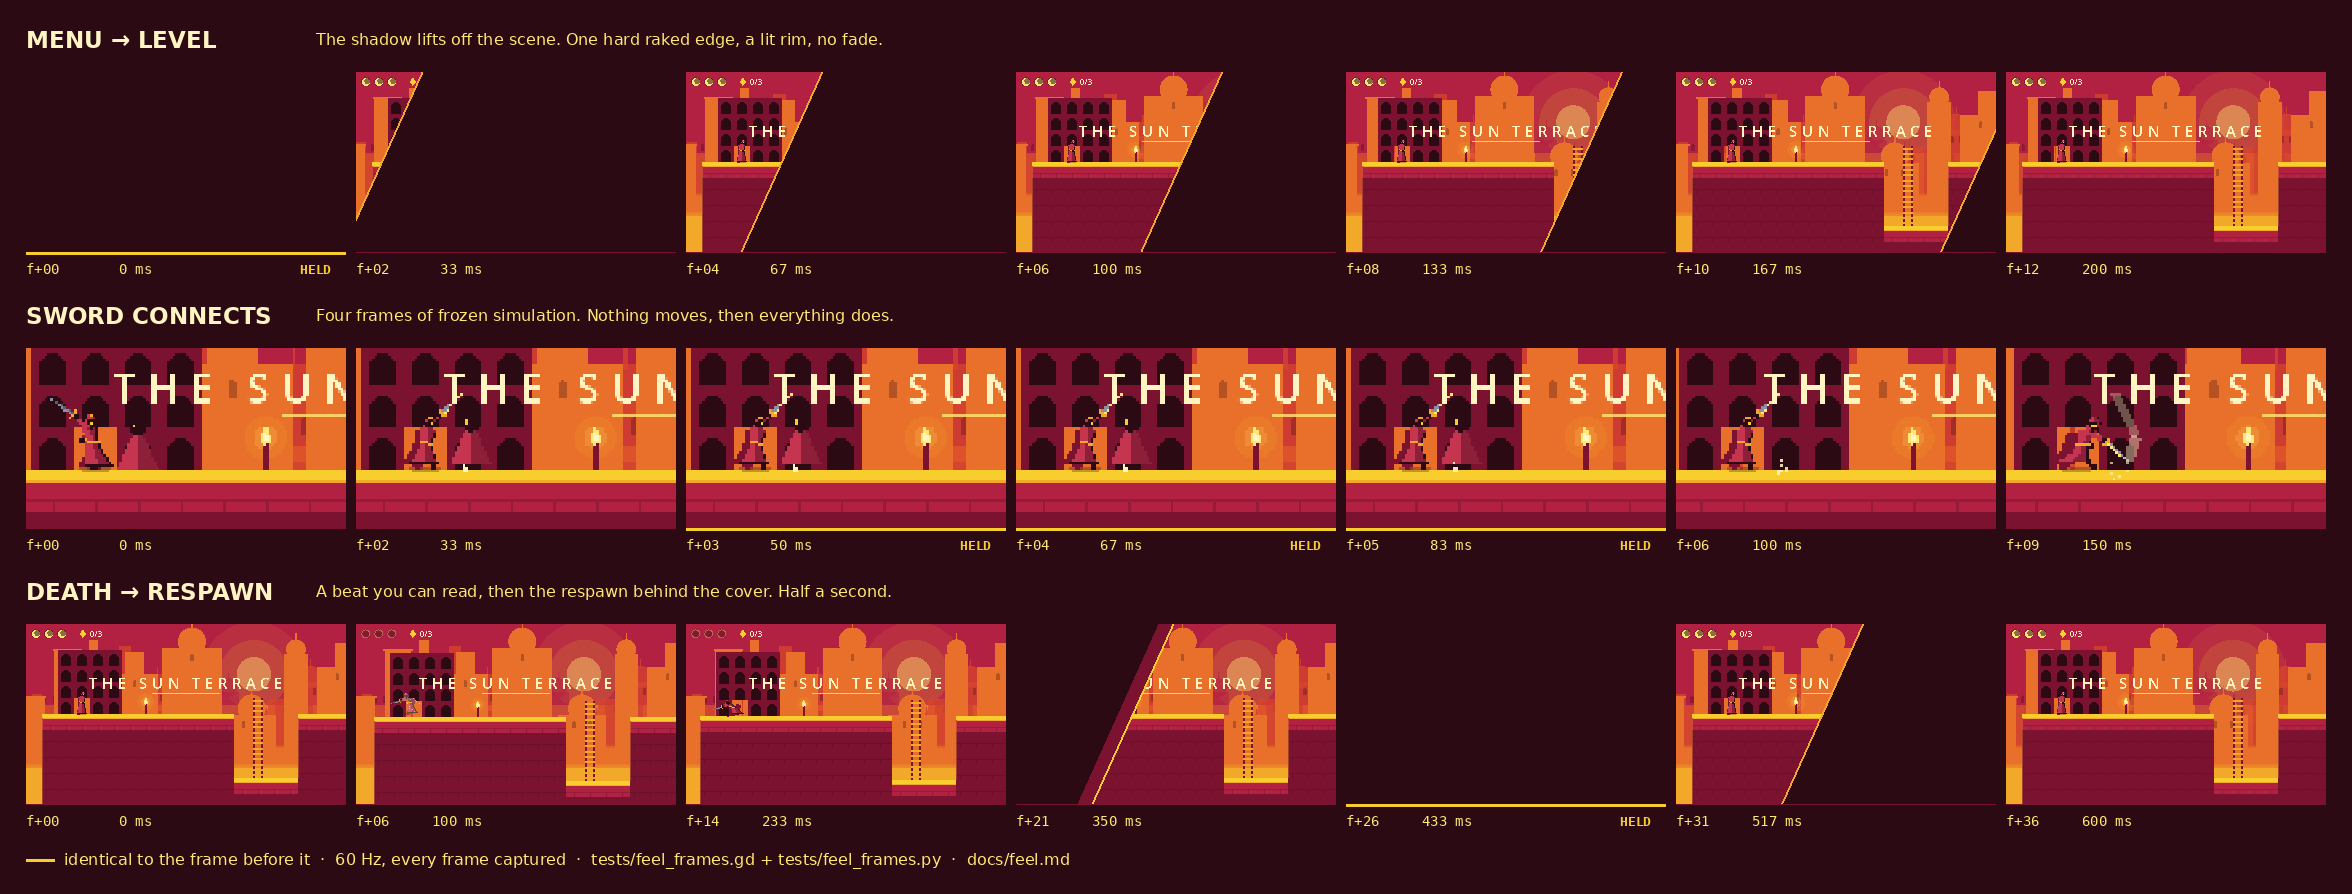
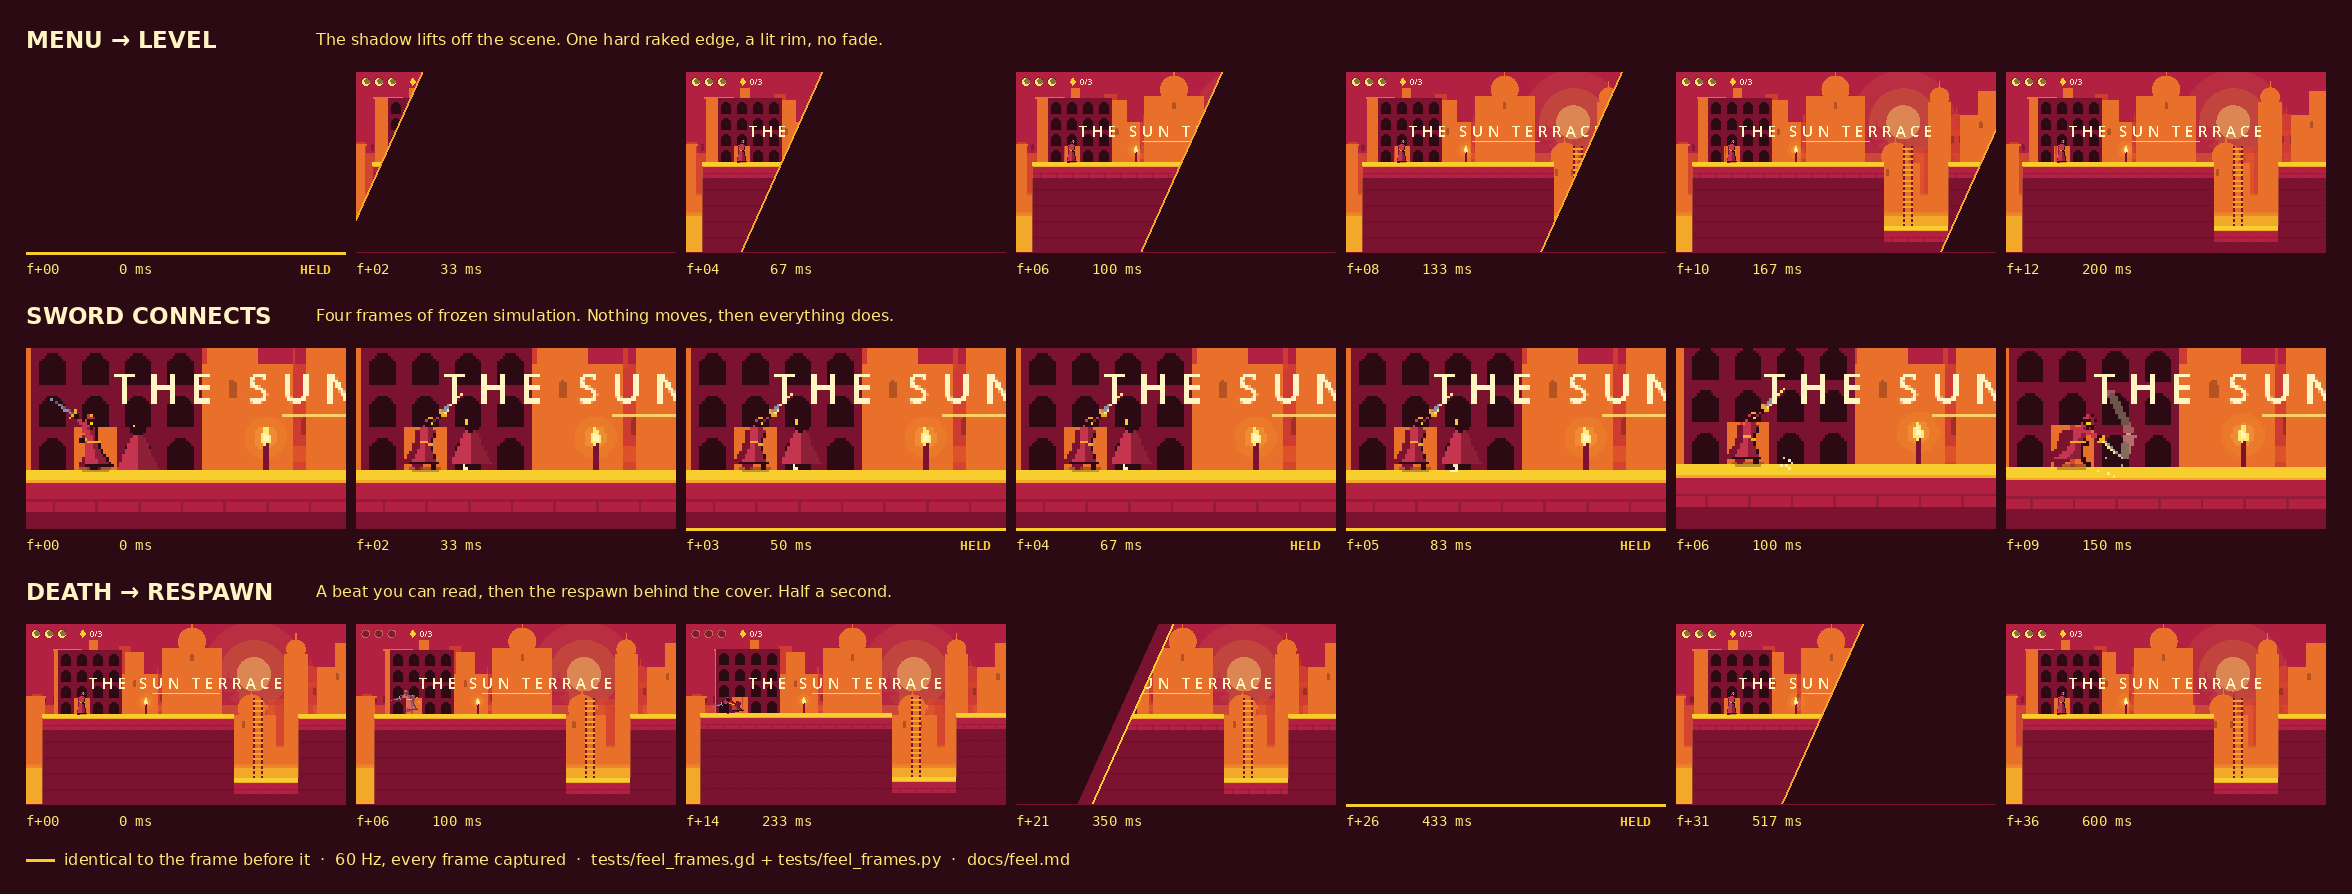
WIP: feel-flow, as the container restarted
Preserving the agent's in-flight work verbatim. The container running
this session was restarted and the agent's context is gone, so this
commit exists only so a second restart cannot cost the files. It has
not been reviewed, is not expected to pass check_all.sh, and must be
squashed or rewritten before it reaches main.

Claude-Session: https://claude.ai/code/session_01CS5kLXfHzuqFJNCkKoEvRT

Changed region(s): [[0.7139, 0.3926, 0.9932, 0.5738], [0.1552, 0.7248, 0.4345, 0.906]]

diff --git a/tests/feel_frames.py b/tests/feel_frames.py
@@ -50,7 +50,7 @@ ROWS = [
         "reveal",
         "MENU → LEVEL",
         "The shadow lifts off the scene. One hard raked edge, a lit rim, no fade.",
-        [4, 6, 8, 10, 12, 14, 16],
+        [5, 7, 9, 11, 13, 15, 17],
         None,
     ),
     (

diff --git a/docs/feel.md b/docs/feel.md
@@ -199,6 +199,15 @@ Flow.busy()                                   # true while a transition owns the
 The hold exists because `change_scene_to_file` is deferred: without it the
 shadow would start to lift off a scene that is still being built.
 
+The whole state machine runs in `_physics_process`, not `_process`. A wipe
+looks like pure presentation — `DuelCamera` reaches the opposite conclusion
+for that reason — but this one fires the caller's work at full cover, and that
+work is a respawn or a scene change. A retry landing on frame 23 at 60 fps and
+frame 11 at 30 fps is gameplay depending on the display, which `CLAUDE.md`
+rules out. The reason `DuelCamera` avoids the physics clock — a reconciling
+client may step it twice in one frame — cannot reach `Flow`, because a duel
+never runs `Game` and so never installs one.
+
 `Flow.enter()` is a no-op while a transition is already running, which makes
 it safe to call unconditionally from `_ready()`. That is what gives an
 incoming wipe even when the *outgoing* half came from somewhere that still
